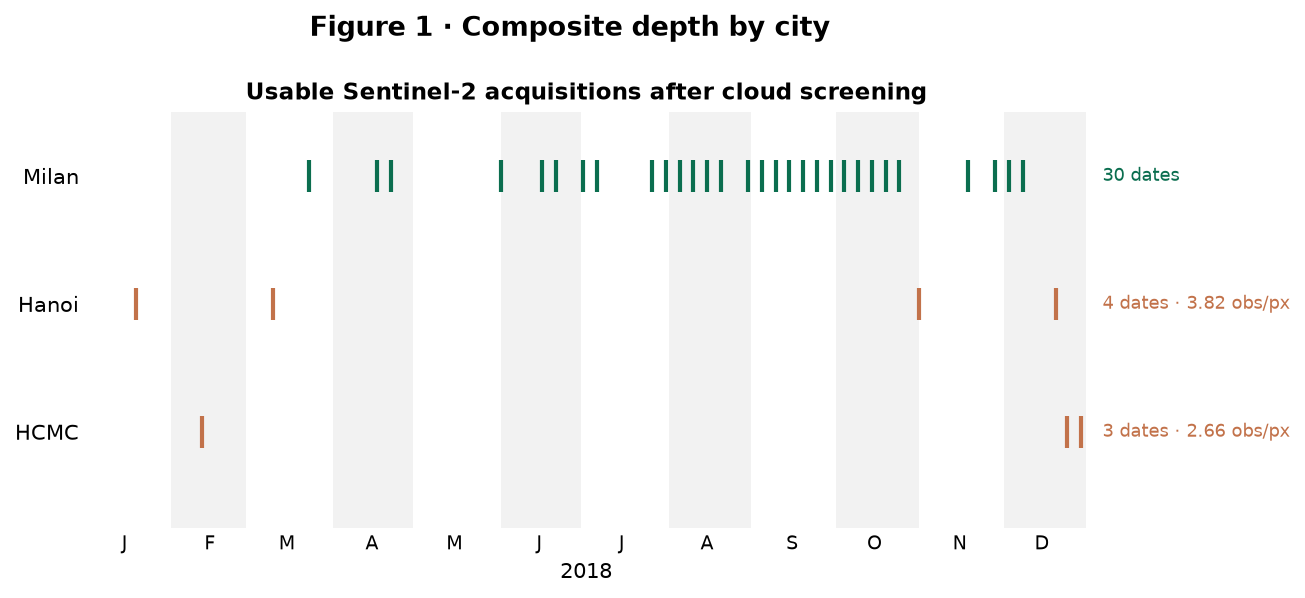
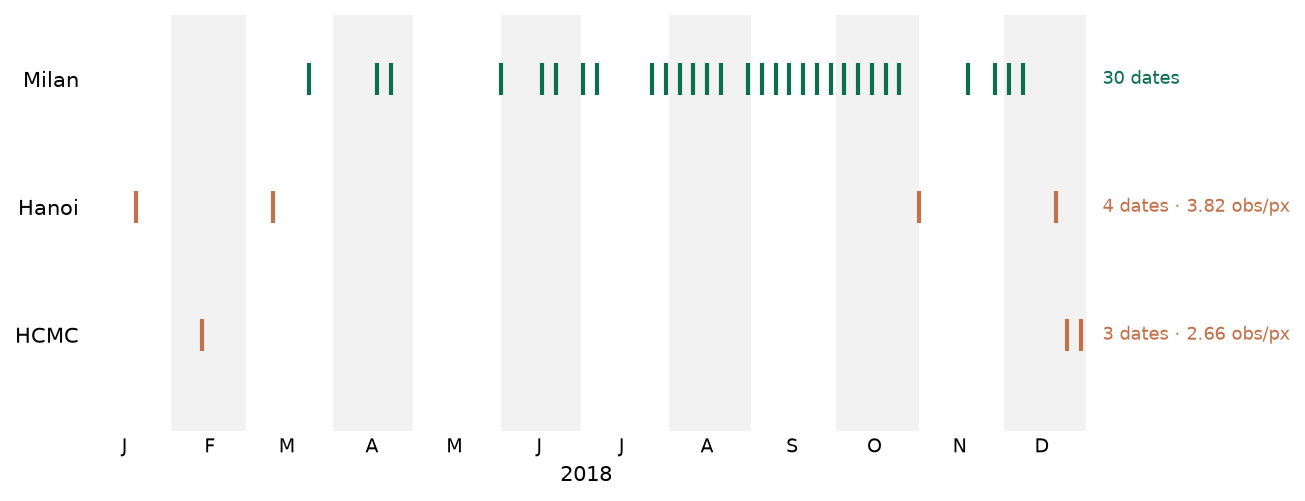
Separate figure code from figure titles
Figure code generates the visualisation; the report generates the title
and caption. Recorded as a hard rule in CLAUDE.md with a Figures section
setting out what belongs in an image and what does not.

Applied across make_report_figs.py and all five notebooks: describing
suptitles removed, "Figure N" / "Figure A-E" prefixes and [S2] run tags
dropped everywhere they were rendered. What stays is what the plot cannot
say for itself - per-panel titles, axis labels, legends, measured
annotations, and run parameters.

Three suptitles survive as run identification rather than caption: F15
and notebooks 02/03 cell 23 name the predictor set behind otherwise
identical raster panels, and 02/03 cell 13 keeps "scored against GHSL"
so the Bias panel cannot be read as accuracy.

Two conclusions removed as well: figB's axes title named the CV winner,
which FIGURES.md records as misleading since RF is the model carried
forward and RF wins the holdout; and fig_samesource_vs_independent's
title stated the spread that Section 7.1 argues in prose.

This retires the numbering hazard rather than managing it. Report figure
numbers track page order and change as sections move, and
audit_numbers.py cannot read a number baked into a PNG, so a stale
in-image number was caught by nothing. Renumbering now needs no figure
rebuild.

Notebooks are edited at source but not executed, per CLAUDE.md - their
figures on disk keep the old titles until a deliberate re-run. The seven
[…]

diff --git a/code/make_report_figs.py b/code/make_report_figs.py
@@ -29,11 +29,18 @@ FIGS = os.path.join(REPO, 'report', 'figs')
 # ── House style ──────────────────────────────────────────────────────────────
 # These figures sit in the REPORT beside the notebook figures, not in the deck,
 # so the conventions come from the notebooks (01/01b/02/03/04) rather than from
-# make_presentation.py. Matched against outputs_v2/figA_holdout_accuracy_GEE_RF:
-# notebook rcParams verbatim, dpi 150, 'Figure N · Description' suptitle at 13pt
-# bold, axes titles 11pt bold, axis labels 10pt, plain matplotlib defaults for
-# font family and tick colour. No kicker, no conclusion-as-title, no in-figure
-# caption -- the claim belongs to the report text.
+# make_presentation.py: notebook rcParams verbatim, dpi 150, axes titles 11pt
+# bold, axis labels 10pt, plain matplotlib defaults for font family and tick
+# colour. No kicker, no conclusion-as-title.
+#
+# Figure code generates the visualisation; the report generates the title and
+# caption (CLAUDE.md). So none of these carries a describing suptitle and none
+# renders a figure number -- the report numbers figures by page order and
+# renumbers as sections move, and audit_numbers.py cannot read a number baked
+# into a PNG. Two suptitles survive because they are not captions: F15 names the
+# run that produced its raster panels, which three identically-named copies
+# cannot otherwise be told apart by, and F3 carries a legend for its bold
+# marking.
 DPI = 150
 
 plt.rcParams.update({
@@ -214,10 +221,8 @@ def build_f12():
     ax.legend(loc='lower right', fontsize=8, framealpha=0.9,
               handlelength=2.2, borderpad=0.7, labelspacing=0.5)
 
-    ax.set_title(f'Spread {spread_a:.2f} pp same-source, {spread_b:.2f} pp '
-                 f'independent', fontweight='bold')
-    fig.suptitle('Figure 15 · Milan predictor sets under both validations',
-                 fontsize=13, fontweight='bold', y=0.99)
+    # No title. The spread figures this used to state are the section's
+    # argument, not a reading off the plot, and Section 7.1 makes it in prose.
 
     os.makedirs(FIGS, exist_ok=True)
     path = os.path.join(FIGS, 'fig_samesource_vs_independent.png')
@@ -383,10 +388,9 @@ def build_f1():
     for side in ('left', 'bottom'):
         ax.spines[side].set_visible(False)
 
-    ax.set_title('Usable Sentinel-2 acquisitions after cloud screening',
-                 fontweight='bold')
-    fig.suptitle('Figure 1 · Composite depth by city',
-                 fontsize=13, fontweight='bold', y=1.06)
+    # Single panel, so an axes title here would be a figure title by another
+    # name -- and the caption already carries it. The per-city counts and
+    # obs/pixel annotations at the right of each row are measurements and stay.
 
     os.makedirs(FIGS, exist_ok=True)
     path = os.path.join(FIGS, 'fig_composite_depth.png')
@@ -644,8 +648,6 @@ def build_f13():
                  fontsize=7.5, color=REF_GREY, annotation_clip=False,
                  family='DejaVu Sans Mono')
 
-    fig.suptitle('Figure 16 · HCMC predicted IMD distributions '
-                 '(n = 450 plots)', fontsize=13, fontweight='bold', y=0.97)
 
     os.makedirs(FIGS, exist_ok=True)
     path = os.path.join(FIGS, 'fig_hcmc_prediction_histogram.png')
@@ -796,12 +798,12 @@ def build_f14():
                    ms=8, markeredgecolor='white', mew=1.2,
                    label='local retrain'),
     ]
-    axes[-1].legend(handles=handles, loc='upper right', fontsize=8.5,
-                    framealpha=0.9, handletextpad=0.5)
+    # Below the axes: with no suptitle above, 'upper right' overlaps the
+    # target marker's value label on the right-hand arrow.
+    axes[-1].legend(handles=handles, loc='upper center',
+                    bbox_to_anchor=(0.5, -0.06), ncol=2, fontsize=8.5,
+                    frameon=False, handletextpad=0.5)
 
-    fig.suptitle('Figure 17 · Bias against photo-interpretation, '
-                 'training target and local retrains',
-                 fontsize=13, fontweight='bold', y=1.01)
     fig.tight_layout()
 
     os.makedirs(FIGS, exist_ok=True)
@@ -897,8 +899,9 @@ def build_f15():
 
     # The label FIGURES.md asks for: a statement of what produced the panels,
     # not a conclusion about them.
-    fig.suptitle('Figure 7 · Milan IMD, observed against predicted — '
-                 'S2 percentile composite (p10/p25/p50/p75/p90), '
+    # Run identification, not a caption: figE exists in three composite run
+    # directories under the same filename and the panels cannot be told apart.
+    fig.suptitle('S2 percentile composite (p10/p25/p50/p75/p90) · '
                  'random forest',
                  fontsize=13, fontweight='bold', y=0.94)
 
@@ -994,9 +997,10 @@ def build_f3():
         ax.set_xlabel('Spatial block size', fontsize=9)
         fig.colorbar(im, ax=ax, fraction=0.046, pad=0.03)
 
-    fig.suptitle('Figure 3 · Spatial against random cross-validation RMSE, '
-                 'training set\n(bold = the block each model was tuned at)',
-                 fontsize=13, fontweight='bold', y=1.10)
+    # A legend for the bold marking, not a caption. y was clearance for the
+    # two-line suptitle that used to sit here; sit it just above the panels.
+    fig.suptitle('bold = the block each model was tuned at',
+                 fontsize=10, y=1.00)
     fig.tight_layout()
 
     os.makedirs(FIGS, exist_ok=True)
@@ -1096,9 +1100,6 @@ def build_f17():
     axes[0].set_title('Ranked on RMSE, best at top', fontsize=9.5,
                       fontweight='bold', loc='left')
 
-    fig.suptitle('Figure 5 · Milan predictor sets on the spatial holdout '
-                 '(GEE random forest, n = 1 014, vs CLMS)',
-                 fontsize=13, fontweight='bold', y=1.03)
     fig.tight_layout()
 
     os.makedirs(FIGS, exist_ok=True)

diff --git a/code/redraw_notebook_figs.py b/code/redraw_notebook_figs.py
@@ -1,21 +1,30 @@
-"""Redraw two cited notebook-01b figures with their duplicating suptitles removed.
+"""Redraw the two cited notebook-01b figures under the CLAUDE.md figure rule.
 
-The report caption carries the description, so the top-level suptitle in
-`fig07_holdout_scatter.png` and `figC_perclass_GEE_RF.png` only repeats it and
-exposes internal run tags (`[S2]`) and estimator keys (`GEE_RF`). Per-panel
-subplot titles are kept -- they label the panels and are not duplication.
+Figure code generates the visualisation; the report generates the title and
+caption. The suptitles in `fig07_holdout_scatter.png` and
+`figC_perclass_GEE_RF.png` broke that: they restated the caption, carried
+internal run tags (`[S2]`) and notebook ids (`Figure 7`, `Figure C`), and
+rendered figure numbers that disagreed with the report's own numbering, where
+these are Figures 4 and 6.
 
-Fixing this at source would mean re-executing notebook 01b, which CLAUDE.md
-forbids for a labelling change: it re-tunes RF and SVR, re-exports a raster to
-Earth Engine, and overwrites the CSVs `collect_metrics.py` builds FACTS.md from.
-So these are redrawn from the CSVs the notebook already wrote, following the
-same rule already used for `fig_cv_inflation` (F3) and
-`fig_milan_raster_comparison` (F15).
+Notebook 01b has since been fixed at source, so a deliberate future run of it
+produces these same figures. This script reproduces that result now, without
+re-executing. Keep the two in step: what 01b renders and what this writes must
+match.
+
+Re-executing 01b to pick the fix up is what CLAUDE.md forbids for a labelling
+change: it re-tunes RF and SVR, re-exports a raster to Earth Engine, and
+overwrites the CSVs `collect_metrics.py` builds FACTS.md from. So these are
+redrawn from the CSVs the notebook already wrote, following the same rule
+already used for `fig_cv_inflation` (F3) and `fig_milan_raster_comparison`
+(F15).
 
 The plotted values are the notebook's. Panel geometry, colours, limits, marker
-sizes and annotation boxes are copied verbatim from cells 39 and 45; only the
-suptitle is dropped. Figures are rewritten at their existing paths, so
-`report.md`, `data/FIGURES.md` and `report/OUTLINE.md` keep working unchanged.
+sizes and annotation boxes are copied verbatim from cells 39 and 45. Figures are
+rewritten at their existing paths, so `report.md`, `data/FIGURES.md` and
+`report/OUTLINE.md` keep working unchanged. Because those paths are gitignored
+notebook outputs, a future 01b run overwrites them -- harmlessly now, since 01b
+renders the same thing.
 
 The residuals CSV carries a third estimator that is out of scope for this
 report. Only the RF and SVR columns are read.
@@ -113,7 +122,10 @@ def redraw_figC(run_dir: Path, name: str = 'GEE_RF') -> Path:
         print(f'  {metric}: ' + '  '.join(
             f'C{c}={v}' for c, v in zip(cls_df['Class'], cls_df[metric])))
 
-    # No suptitle: the report caption carries the description.
+    # Matches the notebook after the CLAUDE.md figure rule: the estimator name
+    # identifies which model the panels plot (the notebook writes one copy per
+    # estimator under different filenames); the description is the caption's.
+    fig.suptitle(name, fontsize=13, fontweight='bold', y=1.01)
     plt.tight_layout()
     out = run_dir / f'figC_perclass_{name}.png'
     plt.savefig(out, dpi=150, bbox_inches='tight')

diff --git a/data/FIGURES.md b/data/FIGURES.md
@@ -222,15 +222,15 @@ notebook figure covers; see `data/FIGURE_GAPS.md` for why each exists.
 | `fig_bias_recovery.png` | GHSL's bias against each local retrain's, per city, with the closed gap in pp | **RESULT** | 7.3 | KEEP |
 | `fig_milan_raster_comparison.png` | Observed CLMS / predicted / difference rasters, Milan, percentile run — `figE` relabelled with a run-identifying suptitle | MAP | 4.1 | KEEP — **cited** |
 
-**The suptitle carries the REPORT's figure number, not the outline's F-number.**
-The two differ: outline F-numbers are planning ids assigned in outline order,
-while the report numbers figures by the order they appear on the page. A
-suptitle reading "Figure 12" beside a caption reading "Figure 15" is a defect a
-reader sees immediately, so the number in the image tracks the caption. Any
-renumbering of the report must therefore be followed by editing the `suptitle`
-calls in `code/make_report_figs.py` and rebuilding; `code/audit_numbers.py`
-checks caption-to-image agreement but cannot read the number rendered inside a
-PNG.
+**Figure numbers are no longer rendered into any image (2026-09-01).** They used
+to be, and the suptitle had to track the report's numbering — outline F-numbers
+are planning ids in outline order, while the report numbers figures by page
+order, so the two differ and a suptitle reading "Figure 12" beside a caption
+reading "Figure 15" was a defect a reader sees immediately. That made every
+renumbering of the report a matching edit to `code/make_report_figs.py`, policed
+by nothing: `code/audit_numbers.py` checks caption-to-image agreement but cannot
+read a number rendered inside a PNG. Removing the numbers removes the hazard —
+renumber the report freely; no figure needs rebuilding.
 
 **Every plotted value is read from `data/FACTS.md`.** `facts_value()` raises on
 an absent row, an ambiguous match, or a `MISSING` cell rather than substituting
@@ -249,6 +249,22 @@ numeric values that are measurements. Every claim ("saturated, not shifted",
 "recovers 38–67 %", the ≥ 17-date percentile floor) belongs to the report
 caption. This is a deliberate departure from `make_presentation.py`, whose
 slide titles are written as conclusions.
+
+**No figure carries its own title or number (2026-09-01).** Figure code
+generates the visualisation; the report generates the title and caption
+(CLAUDE.md). Applied across `make_report_figs.py` and all five notebooks:
+describing suptitles removed, `Figure N ·` / `Figure A–E ·` prefixes and `[S2]`
+run tags dropped everywhere they were rendered. What stays is what the plot
+cannot say for itself — per-panel titles, axis labels, legends, measured
+annotations, and run parameters (buffer, folds, block size, composite depth).
+Three suptitles survive as run identification rather than caption: F15 and
+notebook 02/03 cell 23 name the predictor set behind otherwise identical raster
+panels, and 02/03 cell 13 keeps "scored against GHSL" so the Bias panel cannot
+be read as accuracy. Two conclusions were also removed: `figB`'s axes title
+named the CV winner, and `fig_samesource_vs_independent`'s stated the spread
+that Section 7.1 argues in prose.
+
+This retires the numbering hazard described below rather than managing it.
 
 **House style** follows the notebooks, not the deck: notebook `rcParams`
 verbatim, dpi 150, `Figure N · Description` suptitle at 13 pt bold, axes titles

diff --git a/CLAUDE.md b/CLAUDE.md
@@ -24,6 +24,9 @@ Companion to `reference/` — the AlphaEarth report by Matej Žgela.
 - Never mention MLP.
 - Cite Žgela for the AlphaEarth method, the shared Milan sample set, and
   anything his report established first.
+- **Figure code generates the visualisation; the report generates the figure
+  title and caption.** No figure carries a top-level `suptitle` that names or
+  describes it, and no figure renders a figure number. See `# Figures`.
 
 # Writing
 
@@ -35,6 +38,42 @@ Companion to `reference/` — the AlphaEarth report by Matej Žgela.
 - British English. No em dashes.
 - After each section, run: `python code/audit_numbers.py report/`
 - Figures are placed at their referenced positions with numbered captions below, matching reference/.
+
+# Figures
+
+**Figure code generates the visualisation; the report generates the title and
+caption.** The image carries what a reader cannot infer from the plot itself;
+the report carries what the figure means.
+
+Belongs in the image:
+
+- Per-panel subplot titles (`RMSE per Class`, `GEE_RF`, `Hanoi`). These label
+  panels, and dropping them makes a multi-panel figure unreadable.
+- Axis labels, units, legends, tick labels.
+- In-plot annotations that are measurements: metric boxes, bar value labels.
+- Run-identifying parameters **only** where the same filename exists in several
+  run directories and the plot cannot distinguish them — for example the
+  composite that produced a raster panel. Name the run, not the finding.
+
+Never in the image:
+
+- A figure number. The report numbers figures by page order, and it renumbers
+  as sections move. A number rendered into a PNG silently goes stale, and
+  `audit_numbers.py` checks caption-to-image agreement but **cannot read a
+  number inside an image**, so nothing catches it. Keeping numbers out of
+  figures removes that blind spot rather than policing it.
+- A restatement of the caption. If the suptitle and the caption say the same
+  thing, the suptitle goes.
+- Internal names: `[S2]` run tags, `Figure A`/`Figure C` notebook ids, variable
+  or estimator keys as description. A panel title of `GEE_RF` is fine; a
+  suptitle of `Figure C · [S2] Per-Class Accuracy -- GEE_RF` is not.
+- Conclusions. Figures state readings; every claim belongs to the caption. This
+  is a deliberate departure from `make_presentation.py`, whose slide titles are
+  written as conclusions.
+
+There is no separate figure-title file. Titles live in the report caption beside
+the prose that has to agree with them, and `data/FIGURES.md` remains the
+inventory of what each figure shows.
 
 # Regenerating
 
